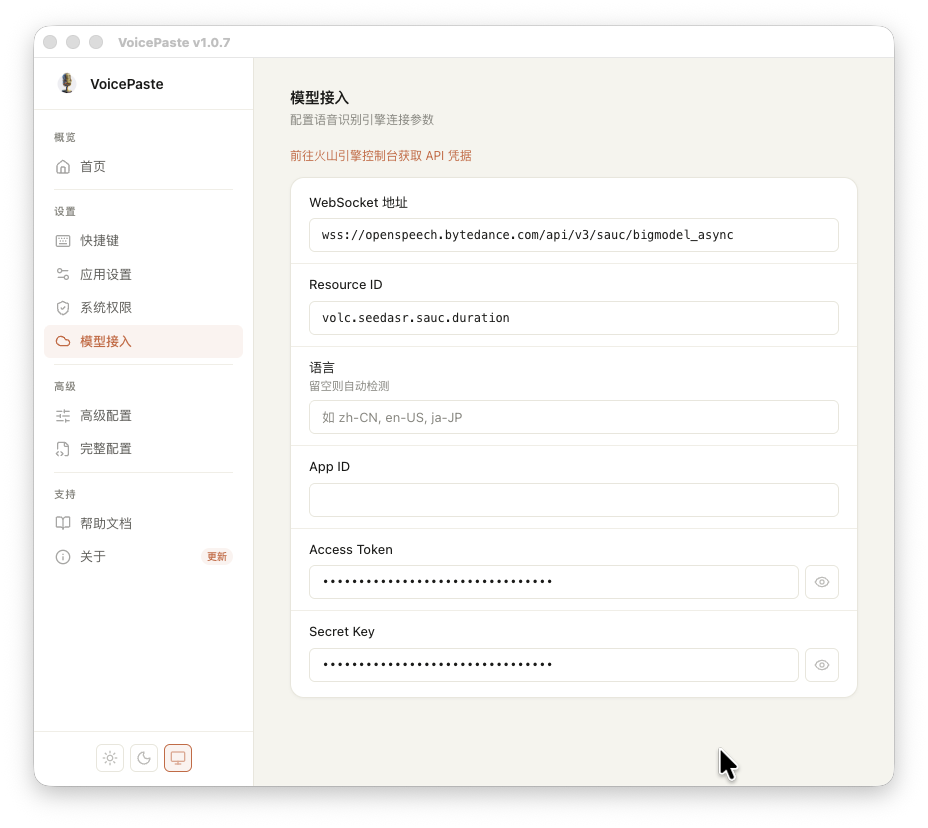
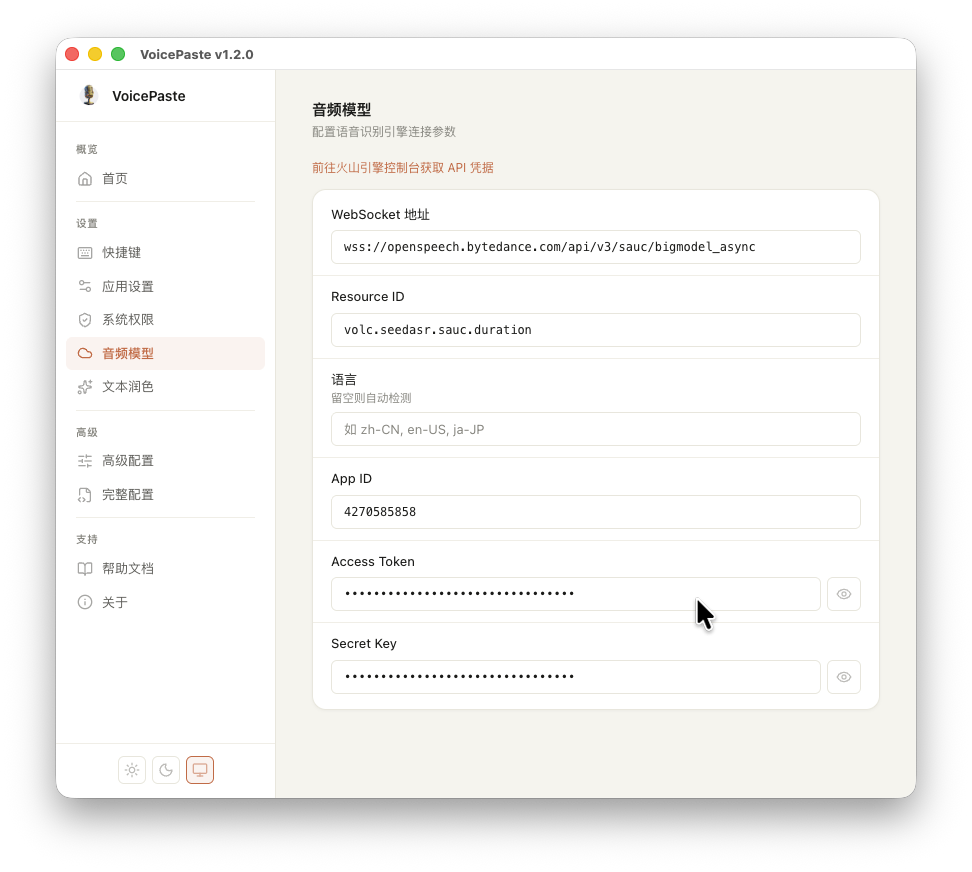
docs: update README and CHANGELOG for v1.2.0, refresh screenshots
Add v1.2.0 entries to CHANGELOG (zh/en) covering LLM text polishing,
prompt templates, waveform, notification sounds, and DMG build. Update
both READMEs with new features, LLM config table, and Apple signing
note. Add LLM config screenshot (api-step4) and refresh existing
screenshots.

diff --git a/README.md b/README.md
@@ -25,6 +25,9 @@ A voice input tool for macOS & Windows — trigger with a hotkey, speak, auto-pa
 - **Hotwords** — Custom hotwords to improve recognition accuracy for domain-specific terms
 - **Cross-platform** — Supports both macOS and Windows
 - **Theme** — Light / dark / system theme preference in settings
+- **Text Polishing** — Post-process ASR output via 8 LLM providers, with multiple prompt templates and per-template hotkey bindings
+- **Recording Feedback** — Real-time audio waveform animation with start sound (recording ready) and end sound (recognition success)
+- **Apple Signed** — macOS builds are signed and notarized with an Apple Developer certificate, no Gatekeeper warnings on install
 
 ## Settings Page
 
@@ -47,6 +50,10 @@ A voice input tool for macOS & Windows — trigger with a hotkey, speak, auto-pa
 
 ![Save Config](docs/screenshots/api-step3.png)
 
+- (Optional) Enable LLM text polishing under "Text Polishing", select a provider, and enter your API Key
+
+![LLM Polishing](docs/screenshots/api-step4.png)
+
 ## Configuration
 
 Edit `config.yaml` in the project root and fill in your credentials:
@@ -63,6 +70,11 @@ Edit `config.yaml` in the project root and fill in your credentials:
 | `connection.secret_key` | Volcengine Secret Key |
 | `connection.resource_id` | ASR Resource ID |
 | `request.context_hotwords` | Custom hotwords list |
+| `llm.enabled` | Enable LLM text polishing |
+| `llm.provider` | LLM provider: deepseek / openai / anthropic / gemini / openrouter / siliconflow / ollama / openai_compatible |
+| `llm.<provider>.url` | Provider API URL (leave empty for built-in providers) |
+| `llm.<provider>.api_key` | Provider API Key |
+| `llm.<provider>.model` | Provider model name |
 
 Get your credentials from [Volcengine Voice Service](https://www.volcengine.com/product/voice-service).
 

diff --git a/CHANGELOG.md b/CHANGELOG.md
@@ -1,5 +1,14 @@
 # Changelog
 
+## v1.2.0 (2026-05-26)
+
+- **LLM Text Polishing** — Integrate Vercel AI SDK with 8 provider support (DeepSeek, OpenAI, Anthropic, Gemini, OpenRouter, SiliconFlow, Ollama, custom OpenAI-compatible) for post-processing ASR output (formatting, polishing, translation, etc.).
+- **Prompt Template Management** — New `prompts.json` for managing multiple prompt templates, each with its own hotkey binding and trigger mode for different polishing scenarios.
+- **Real-time Audio Waveform** — Live audio waveform visualization in the floating overlay during recording.
+- **Notification Sounds** — Distinct start and end sounds to indicate recording readiness and recognition success.
+- **DMG Build Output** — Added DMG format for macOS builds, fixing auto-update failures on read-only volumes.
+- **Settings UI Polish** — Multi-provider selector, prompt template editor, refined hotkey keycap display with subtle superscript for left/right modifier distinction.
+
 ## v1.1.0 (2026-05)
 
 - **Settings Home Page** — Added a home page with usage statistics, activity heatmap, and input history for a quick overview of your voice input activity.

diff --git a/CHANGELOG.zh.md b/CHANGELOG.zh.md
@@ -1,5 +1,14 @@
 # 更新说明
 
+## v1.2.0 (2026-05-26)
+
+- **LLM 文本润色** — 集成 Vercel AI SDK，支持 DeepSeek、OpenAI、Anthropic、Gemini、OpenRouter、硅基流动、Ollama、自定义 OpenAI 兼容共 8 家厂商，可对 ASR 识别结果进行 LLM 后处理（格式化、润色、翻译等）。
+- **润色模板管理** — 新增 `prompts.json` 管理多套提示词模板，每个模板可独立绑定快捷键与触发模式，实现不同场景下的润色需求。
+- **实时音频波形** — 录音期间在浮动窗口中显示实时音频波形动画，提供直观的录音反馈。
+- **提示音** — 录音就绪与识别成功时分别播放开始音和结束音，直观感知录音状态。
+- **DMG 构建格式** — macOS 构建新增 DMG 输出，解决只读卷场景下自动更新失败的问题。
+- **设置页优化** — 新增多厂商选择器、提示词模板编辑器；优化左右修饰键（L/R Ctrl、Shift 等）的 keycap 显示为柔和上标样式。
+
 ## v1.1.0 (2026-05)
 
 - **设置主页** — 新增主页，包含使用统计、活跃热力图和输入历史，快速了解语音输入使用情况。